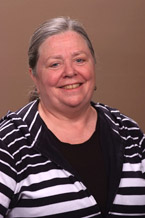
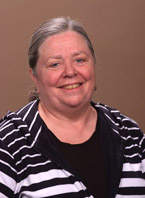
Update development staff images

diff --git a/css/main.css b/css/main.css
@@ -1342,13 +1342,7 @@ li.crumb-item:last-child .crumb-tail {
   }
 }
 
-/* line 15, ../sass/components/_theme.scss */
-.profile-thumb {
-  height: 198px;
-  max-width: 100%;
-}
-
-/* line 19, ../sass/components/_theme.scss */
+/* line 17, ../sass/components/_theme.scss */
 .profile-name {
   margin-top: .5em;
   font-size: 1.25em;
@@ -1356,7 +1350,7 @@ li.crumb-item:last-child .crumb-tail {
   line-height: 1.15;
 }
 
-/* line 25, ../sass/components/_theme.scss */
+/* line 23, ../sass/components/_theme.scss */
 .profile-title {
   margin-top: .2em;
   margin-bottom: .4em;

diff --git a/sass/components/_theme.scss b/sass/components/_theme.scss
@@ -12,9 +12,7 @@
 	@include breakpoint(bp3) {
 		margin: .35em 1.75em 1.75em 0; } }
 
-.profile-thumb {
-	height: 198px;	
-	max-width: 100%; }
+.profile-thumb { }
 
 .profile-name {
 	margin-top: .5em;
